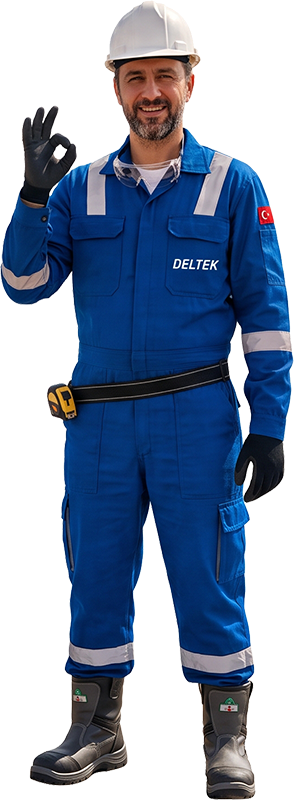
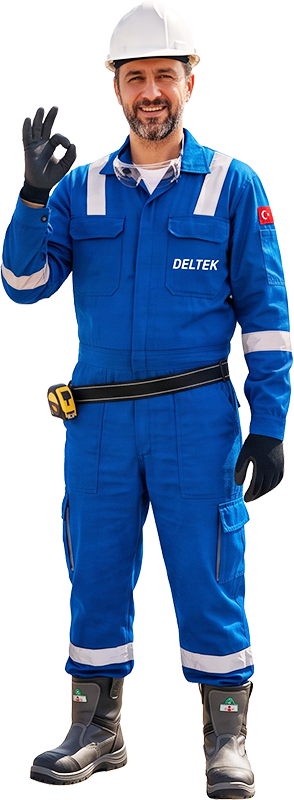
Son slayti kaldir, slayt butonlarini iletisime baglayin
9. (marka) slayt HERO_TR ve EN_YAZI'dan silindi; slider 8 slayt.

Butonlar <span> idi, artik <a href="/iletisim/">. Gorunum global.css
.btn--dolu ile ayni: hover'da koyulasma + 1px yukselme + derin golge,
:focus-visible'da sari cerceve. eylemHref alani eklendi (varsayilan
/iletisim/); /en/iletisim/ henuz olmadigi icin EN de oraya gidiyor.

Uc kusur yol boyunca cikti ve giderildi:
- yazi-gir animasyonu transform yerine translate kullaniyor; yoksa
  fill-mode: both hover'daki translateY(-1px)i eziyordu
- hover arka plani tema seciciyle ayni derinlikte yazilmali; tek
  sinifli kural (0,3,0) .yazi--koyu .yazi__eylem (0,4,0) kuralini
  yenemiyordu, renk hic degismiyordu
- ekran disindaki slaytlarin butonlari klavyeyle odaklanabiliyordu;
  ciz() artik pasif slaytlara inert veriyor

diff --git a/src/data/hero.ts b/src/data/hero.ts
@@ -41,6 +41,13 @@ export type HeroYazi = {
   satirlar?: string[];
   eylem?: string;           // buton metni
   /**
+   * Butonun bağlantısı. Verilmezse `/iletisim/`.
+   * EN slaytlar da oraya gidiyor: `/en/iletisim/` sayfası henüz yok
+   * (bkz. CLAUDE.md yapılacaklar). Çeviri eklenince EN_YAZI'da
+   * `eylemHref: '/en/iletisim/'` yazılmalı.
+   */
+  eylemHref?: string;
+  /**
    * Metin bloğunun yatay yeri — görsel katmanların boş bıraktığı taraf.
    * 'merkez' bloğu sayfanın tam ortasına alır ve metni ortalar; katmanı
    * olmayan ya da katmanları iki yana dağılmış slaytlar için.
@@ -150,8 +157,8 @@ export const HERO_TR: HeroSlayt[] = [
       // Makine soldan girer, ardından işçi sağdan katılır. Orijinalde işçi
       // 3350 ms'de başlıyordu (toplam 4,35 sn); diğer slaytlarla aynı ritmi
       // tutturmak için öne çekildi.
-      { tur: 'gorsel', src: '/images/hero/katman/machinery1.png', w: 700, h: 232, x: 520, y: 76, gecis: 'sfl', basla: 400, sure: 1800 },
-      { tur: 'gorsel', src: '/images/hero/katman/ok-worker.png', w: 150, h: 350, x: 450, y: 90, gecis: 'sfl', basla: 1300, sure: 900, darGizle: true },
+      { tur: 'gorsel', src: '/images/hero/katman/machinery1.png', w: 500, h: 232, x: 630, y: 86, gecis: 'sfl', basla: 400, sure: 1800 },
+      { tur: 'gorsel', src: '/images/hero/katman/ok-worker.png', w: 150, h: 350, x: 480, y: 90, gecis: 'sfl', basla: 1300, sure: 900, darGizle: true },
     ],
   },
   {
@@ -206,17 +213,6 @@ export const HERO_TR: HeroSlayt[] = [
       { tur: 'gorsel', src: '/images/hero/katman/button-hand.png', w: 290, h: 277, x: 940, y: 225, gecis: 'lfb', basla: 1400, sure: 900 },
     ],
   },
-  {
-    // Katmanı olmayan marka slaydı → yazı sayfanın tam ortasında.
-    arka: '/images/hero/deltek-yatay-sondaj-marka.jpg',
-    alt: 'Deltek yatay sondaj makinesi',
-    yazi: {
-      ustlik: 'Deltek',
-      baslik: 'Yatay Sondajda Bir Dünya Markası',
-      konum: 'merkez', dikey: 'orta', tema: 'acik',
-    },
-    katmanlar: [],
-  },
 ];
 
 // İngilizce metinler Türkçe orijinallerin çevirisidir, Deltek onayından
@@ -245,8 +241,6 @@ const EN_YAZI: HeroYazi[] = [
     eylem: 'Request a quote', konum: 'sol', dikey: 'orta', tema: 'acik' },
   { ustlik: 'A difference in infrastructure', baslik: 'Get ahead of your competitors with effective solutions',
     konum: 'sol', dikey: 'ust', tema: 'acik' },
-  { ustlik: 'Deltek', baslik: 'A global brand in horizontal drilling',
-    konum: 'merkez', dikey: 'orta', tema: 'acik' },
 ];
 
 export const HERO_EN: HeroSlayt[] = HERO_TR.map((s, i) => ({ ...s, yazi: EN_YAZI[i] }));

diff --git a/CLAUDE.md b/CLAUDE.md
@@ -271,7 +271,7 @@ OG görseli **raster olmak zorunda**: Facebook/X/LinkedIn/WhatsApp SVG render et
 **Hero slider** — `src/components/HeroSlider.astro`, veri `src/data/hero.ts`.
 
 **Görsel katmanlar** canlı deltek.com.tr'deki Revolution Slider'dan birebir alındı:
-9 slayt, 9 görsel + 1 YouTube katmanı; konum, geçiş tipi, gecikme ve süre
+8 slayt (9.'su kaldırıldı), 8 görsel + 1 YouTube katmanı; konum, geçiş tipi, gecikme ve süre
 orijinaliyle aynı (4. slaytta sondaj biti soldan gelip toprak adasına giriyor).
 Koordinatlar canlı slider'ın **1920×500 tasarım ızgarasındaki** pikseller
 (`HERO_IZGARA`); bileşen container-query birimiyle (`--olcek`) orantılı ölçekler.
@@ -294,13 +294,14 @@ yazi:
   satirlar: ['...']              # gövde satırları
   eylem: 'Bize ulaşın'           # buton (isteğe bağlı)
   eylemKonum: akis | dip         # 'dip': buton slaytın en altına sabitlenir
+  eylemHref: '/iletisim/'        # buton bağlantısı (varsayılan /iletisim/)
   konum: sol | merkez | sag      # yatay yer ('orta' DEĞİL — o `dikey`in değeri)
   dikey: ust | orta | alt        # katmanların kapladığı bandın dışı
   tema:  koyu | acik             # arka plan koyu mu açık mı
 ```
 
 `tema` yazı ve perde rengini belirler: **1-3. slaytlar koyu fotoğraf** (beyaz yazı,
-koyu perde), **4-9. slaytlar çok açık zemin** (lacivert yazı, açık perde). Perde
+koyu perde), **4-8. slaytlar çok açık zemin** (lacivert yazı, açık perde). Perde
 fotoğrafın tamamını değil yalnızca yazının olduğu yanı yumuşatır.
 
 **Satır kırmak için `\n` kullanılır**, `<br />` değil. Metinler kaçışlanarak
@@ -368,7 +369,7 @@ Giderilenler:
 şeride yaslanır: ana menü satırı (`.ust__gez`, TR menüsünde **797px**) iki yanına
 **140'ar piksel** eklenerek **1077px**'lik kuşak elde edildi. Sol hizalı slaytlar
 kuşağın sol sınırından, sağ hizalı slaytlar sağ sınırından başlar; hiçbir metin
-dışarı taşmaz (9 slaytta ölçüldü). Ekran daraldığında kuşak `.kap` iç payına
+dışarı taşmaz (tüm slaytlarda ölçüldü). Ekran daraldığında kuşak `.kap` iç payına
 kadar kısalır, taşma yine olmaz.
 
 `--kusak` değeri `.yazi` içinde **elle yazılı sabittir** — container query içinden
@@ -378,6 +379,30 @@ sayfa eklenip çıkarılırsa) `.ust__gez` yeniden ölçülüp `--kusak` güncel
 ```js
 document.querySelector('.ust__gez').getBoundingClientRect().width + 280
 ```
+
+### Slayt butonları
+
+`eylem` yazılan slaytta gerçek bir `<a>` basılır; hedef `eylemHref`, verilmezse
+`/iletisim/`. **EN slaytlar da `/iletisim/`'e gider** — `/en/iletisim/` sayfası
+henüz yok; çeviri eklenince `EN_YAZI`'da `eylemHref` yazılmalı.
+
+Görünüm `global.css`'teki `.btn--dolu` ile aynı: hover'da koyulaşır, 1 px
+yükselir, gölge derinleşir; `:focus-visible`'da sarı çerçeve.
+
+Bu buton üç ayrı tuzağın kesiştiği yer — üçü de yaşandı:
+
+1. **Giriş animasyonu `transform` DEĞİL `translate` kullanmalı.** `yazi-gir`
+   `animation-fill-mode: both` ile bitiyor; `to { transform: none }` yazsaydı
+   animasyon bittikten sonra da `transform`u tutar ve hover'daki
+   `translateY(-1px)`i ezerdi. `translate` ayrı bir özellik, çakışmıyor.
+2. **Hover arka planı tema seçicisiyle aynı derinlikte yazılmalı.**
+   `.yazi--koyu .yazi__eylem` iki sınıflı (0,4,0); tek sınıflı bir
+   `.yazi__eylem:hover` (0,3,0) onu yenemez ve renk değişmez. Bu yüzden hover
+   arka planı `.yazi--koyu/.yazi--acik` önekiyle yazılıyor.
+3. **Ekran dışındaki slaytların butonları klavyeyle odaklanabiliyordu.**
+   Slaytlar yan yana durup `translateX` ile kaydırıldığı için pasif slaytlar
+   DOM'da ve odaklanabilir kalıyor. `ciz()` artık aktif olmayan slaytlara
+   `inert` veriyor (`src/pages/index.astro` ve `en/index.astro`).
 
 **Giriş animasyonu** kademeli: üstlik 0,18 sn → başlık 0,32 sn → gövde satırları
 0,48 sn'den itibaren 0,1 sn arayla → buton 0,66 sn. Her parça 0,72 sn'de aşağıdan
